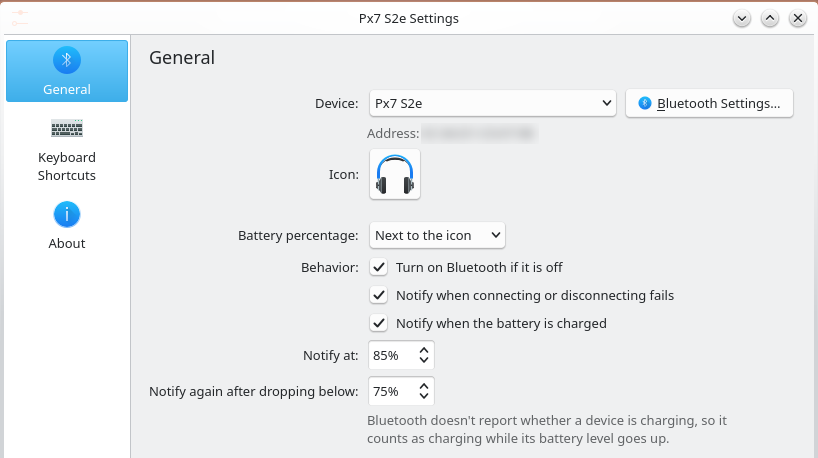
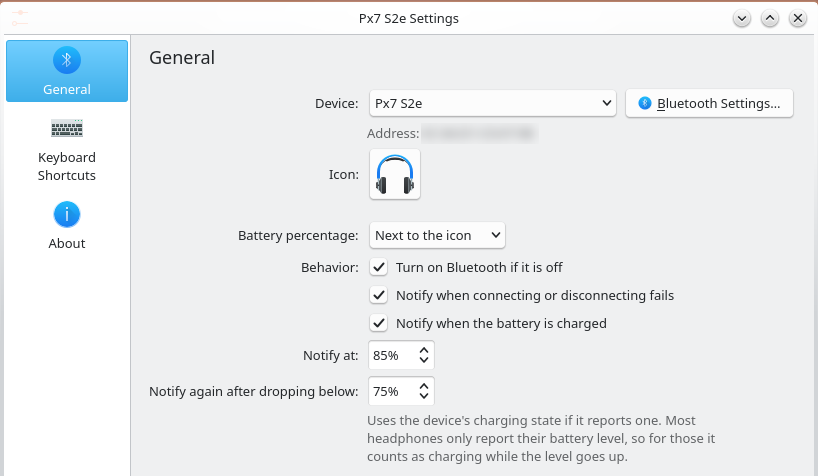
feat: use the device's charging state when it reports one
Read the battery from UPower when a kernel driver provides it, as for some
game controllers. Its charging state replaces the rising-level guess, and its
level fills in when BlueZ has none. Reword the hint to say most headphones only
report their battery level.

Changed region(s): [[0.1834, 0.4891, 0.8863, 0.9782], [0.0, 0.0306, 1.0, 0.5502], [0.3667, 0.1834, 0.978, 0.4279]]

diff --git a/package/contents/ui/main.qml b/package/contents/ui/main.qml
@@ -35,13 +35,25 @@ PlasmoidItem {
     readonly property bool radioOn: !BluezQt.Manager.bluetoothBlocked && BluezQt.Manager.usableAdapter !== null
     readonly property bool bluetoothOn: device ? (!BluezQt.Manager.bluetoothBlocked && adapter !== null && adapter.powered) : radioOn
     readonly property bool connected: device !== null && device.connected
-    readonly property int batteryPercent: connected && device.battery ? device.battery.percentage : -1
+    readonly property var upower: upowerLoader.item
+    // Most devices report their battery to BlueZ. Some, like game controllers, only through the kernel.
+    readonly property int batteryPercent: {
+        if (!connected) {
+            return -1;
+        }
+        if (device.battery) {
+            return device.battery.percentage;
+        }
+        return upower ? upower.percentage : -1;
+    }
     readonly property string displayName: device ? device.name : (Plasmoid.configuration.deviceName || deviceAddress)
 
-    // BlueZ doesn't report whether a device is charging, so assume it is while the level rises.
+    // Use the charging state when the device reports one. Most headphones only report their
+    // battery level, so for those assume the device is charging while the level rises.
     property int lastBatteryPercent: -1
-    property bool charging: false
+    property bool levelRising: false
     property bool chargeNotified: false
+    readonly property bool charging: upower && upower.charging !== undefined ? upower.charging : levelRising
 
     // 0 hidden, 1 badge on the icon, 2 next to the icon. Older versions only had the showBattery switch.
     readonly property int batteryDisplay: Plasmoid.configuration.batteryDisplay >= 0
@@ -222,21 +234,40 @@ PlasmoidItem {
             Plasmoid.configuration.deviceIcon = device.icon;
         }
     }
-    onDeviceAddressChanged: clearError()
-    onConnectedChanged: if (connected) clearError()
+    onDeviceAddressChanged: {
+        clearError();
+        searchUPower();
+    }
+    onConnectedChanged: {
+        if (connected) {
+            clearError();
+            searchUPower();
+        } else if (upower) {
+            upower.forget();
+        }
+    }
 
     onBatteryPercentChanged: {
         const percent = batteryPercent;
         if (percent < 0 || lastBatteryPercent < 0) {
             // Disconnected, or the first reading after connecting: start over from here.
             lastBatteryPercent = percent;
-            charging = false;
+            levelRising = false;
             chargeNotified = false;
+        } else {
+            // A flat reading never gets here, so a plateau keeps counting as rising.
+            levelRising = percent > lastBatteryPercent;
+            lastBatteryPercent = percent;
+        }
+        checkCharge();
+    }
+    onChargingChanged: checkCharge()
+
+    function checkCharge() {
+        const percent = batteryPercent;
+        if (percent < 0) {
             return;
         }
-        // A flat reading never gets here, so a plateau keeps counting as charging.
-        charging = percent > lastBatteryPercent;
-        lastBatteryPercent = percent;
         if (percent < Math.min(Plasmoid.configuration.chargeResetBelow, Plasmoid.configuration.chargeThreshold)) {
             chargeNotified = false;
         }
@@ -245,6 +276,11 @@ PlasmoidItem {
             chargeNotified = true;
             notify(i18n("Battery charged to %1%.", percent));
         }
+    }
+
+    function searchUPower() {
+        upowerSearch.tries = 0;
+        upowerSearch.restart();
     }
 
     Plasmoid.icon: iconName
@@ -323,6 +359,33 @@ PlasmoidItem {
         id: errorExpiry
         interval: 60000
         onTriggered: root.clearError()
+    }
+
+    // Needs Plasma's D-Bus QML module. Without it, upower stays null and only BlueZ is used.
+    Loader {
+        id: upowerLoader
+        source: "UPowerDevice.qml"
+        onLoaded: {
+            item.address = Qt.binding(() => root.deviceAddress);
+            root.searchUPower();
+        }
+    }
+
+    // The kernel adds a device's battery a moment after the device connects, so look a few times.
+    Timer {
+        id: upowerSearch
+        property int tries: 0
+        interval: 5000
+        repeat: true
+        triggeredOnStart: true
+        onTriggered: {
+            if (!root.upower || !root.connected || root.upower.devicePath !== "" || tries >= 6) {
+                stop();
+                return;
+            }
+            tries++;
+            root.upower.find();
+        }
     }
 
     Component {

diff --git a/package/contents/ui/UPowerDevice.qml b/package/contents/ui/UPowerDevice.qml
@@ -1,0 +1,95 @@
+/*
+ * SPDX-FileCopyrightText: 2026 D3SOX
+ * SPDX-License-Identifier: GPL-2.0-or-later
+ */
+
+pragma ComponentBehavior: Bound
+
+import QtQuick
+import org.kde.plasma.workspace.dbus as DBus
+
+// The device's battery as the kernel reports it to UPower. Only some devices have one, mostly
+// game controllers, and it can say whether the device is charging. Battery levels that UPower
+// just copies from BlueZ are skipped, because they never come with a charging state.
+Item {
+    id: source
+
+    property string address
+
+    property string devicePath: ""
+    readonly property var deviceProperties: watcher.item ? watcher.item.properties : null
+
+    readonly property int percentage: deviceProperties && deviceProperties.Percentage !== undefined
+        ? Math.round(deviceProperties.Percentage) : -1
+
+    // true or false when the device reports it, undefined when it doesn't.
+    readonly property var charging: {
+        switch (deviceProperties ? deviceProperties.State : 0) {
+        case 1: // Charging
+        case 4: // Fully charged, still on the charger
+        case 5: // Pending charge
+            return true;
+        case 2: // Discharging
+        case 3: // Empty
+        case 6: // Pending discharge
+            return false;
+        }
+        return undefined;
+    }
+
+    function call(path, iface, member, args, callback) {
+        const reply = DBus.SystemBus.asyncCall({
+            service: "org.freedesktop.UPower",
+            path: path,
+            iface: iface,
+            member: member,
+            arguments: args,
+        });
+        reply.finished.connect(() => {
+            if (!reply.isError) {
+                callback(reply.value);
+            }
+            reply.destroy();
+        });
+    }
+
+    function find() {
+        const mac = address.toLowerCase();
+        if (!mac || devicePath) {
+            return;
+        }
+        call("/org/freedesktop/UPower", "org.freedesktop.UPower", "EnumerateDevices", [], paths => {
+            for (const entry of paths || []) {
+                const path = entry.value ?? entry;
+                call(path, "org.freedesktop.DBus.Properties", "GetAll", ["org.freedesktop.UPower.Device"], props => {
+                    const nativePath = String(props.NativePath || "").toLowerCase();
+                    if (nativePath.startsWith("/org/bluez/")) {
+                        return;
+                    }
+                    // Kernel drivers put the address in the battery's name, e.g. ps-controller-battery-<mac>.
+                    if (nativePath.includes(mac) || nativePath.includes(mac.replace(/:/g, "_"))
+                            || String(props.Serial || "").toLowerCase() === mac) {
+                        source.devicePath = path;
+                    }
+                });
+            }
+        });
+    }
+
+    function forget() {
+        devicePath = "";
+    }
+
+    onAddressChanged: forget()
+
+    Loader {
+        id: watcher
+        active: source.devicePath !== ""
+        sourceComponent: DBus.Properties {
+            busType: DBus.BusType.System
+            service: "org.freedesktop.UPower"
+            path: source.devicePath
+            iface: "org.freedesktop.UPower.Device"
+        }
+    }
+}

diff --git a/package/contents/ui/ConfigGeneral.qml b/package/contents/ui/ConfigGeneral.qml
@@ -223,7 +223,7 @@ KCMUtils.SimpleKCM {
             Layout.maximumWidth: Kirigami.Units.gridUnit * 20
             wrapMode: Text.Wrap
             enabled: chargeCheck.checked
-            text: i18n("Bluetooth doesn't report whether a device is charging, so it counts as charging while its battery level goes up.")
+            text: i18n("Uses the device's charging state if it reports one. Most headphones only report their battery level, so for those it counts as charging while the level goes up.")
             opacity: 0.7
         }
     }

diff --git a/README.md b/README.md
@@ -10,7 +10,7 @@ A KDE Plasma 6 panel widget for one Bluetooth device, like your headphones. Avai
 - If Bluetooth is off, clicking turns it on first (can be disabled).
 - Shows a notification if connecting fails, e.g. when the device is off or out of range.
 - Optional battery percentage in the panel, either next to the icon or as a badge on it. Next to the icon, it turns red at 15% or below.
-- Optional notification when the battery is charged to a set level, 85% by default. Bluetooth doesn't report whether a device is charging, so it counts as charging while the level goes up. You won't be notified again until the level drops below a second value, 75% by default.
+- Optional notification when the battery is charged to a set level, 85% by default. It uses the device's charging state if the device reports one, as some game controllers do. Most headphones only report their battery level, so for those it counts as charging while the level goes up. You won't be notified again until the level drops below a second value, 75% by default.
 - Right-click menu: Connect/Disconnect and Bluetooth Settings.
 - Supports a global keyboard shortcut (Configure → Keyboard Shortcuts).
 
@@ -25,7 +25,7 @@ Want several devices? Add the widget once per device.
 
 The widget uses the same BluezQt library as Plasma's own Bluetooth widget, so there's nothing extra to install.
 
-Battery levels show up for devices that report them to BlueZ, which most modern headphones do.
+Battery levels show up for devices that report them to BlueZ, which most modern headphones do, or to UPower through the kernel, like some game controllers.
 
 ## Install
 
